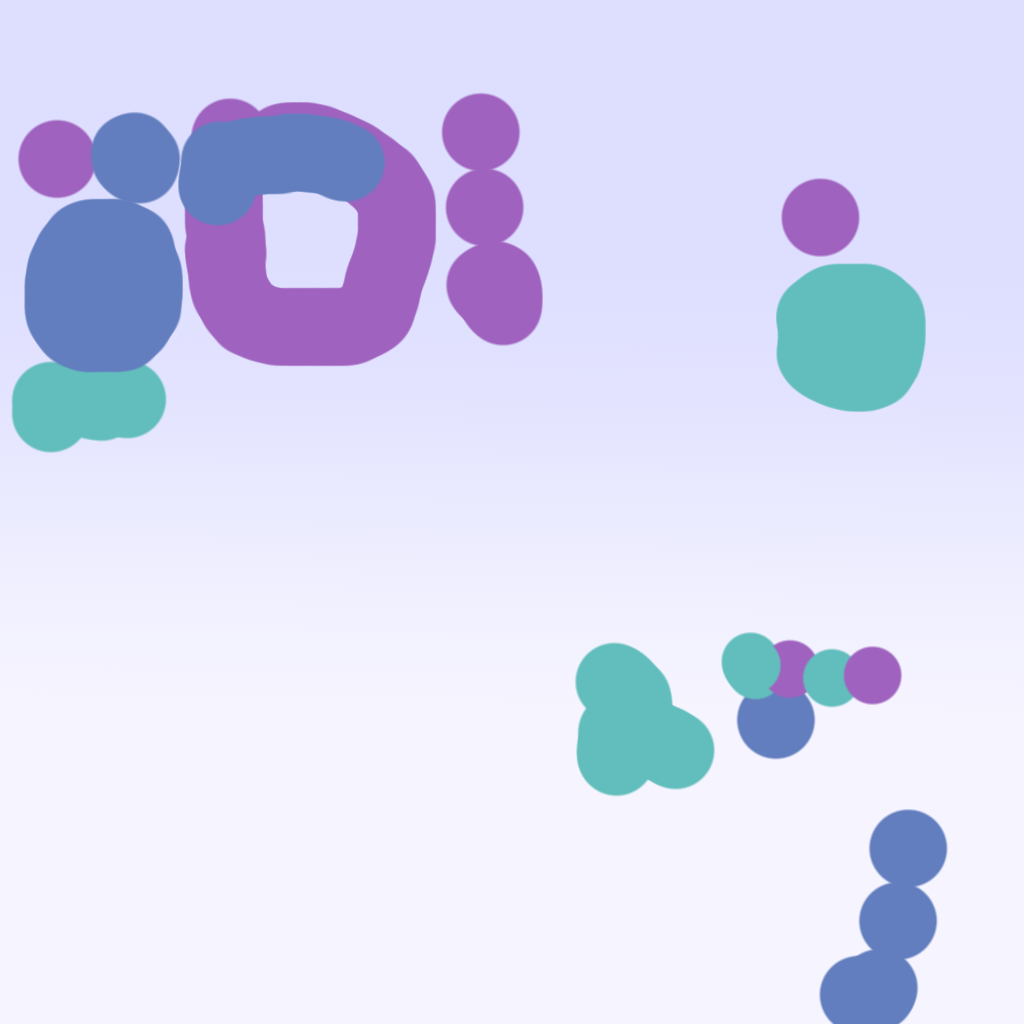
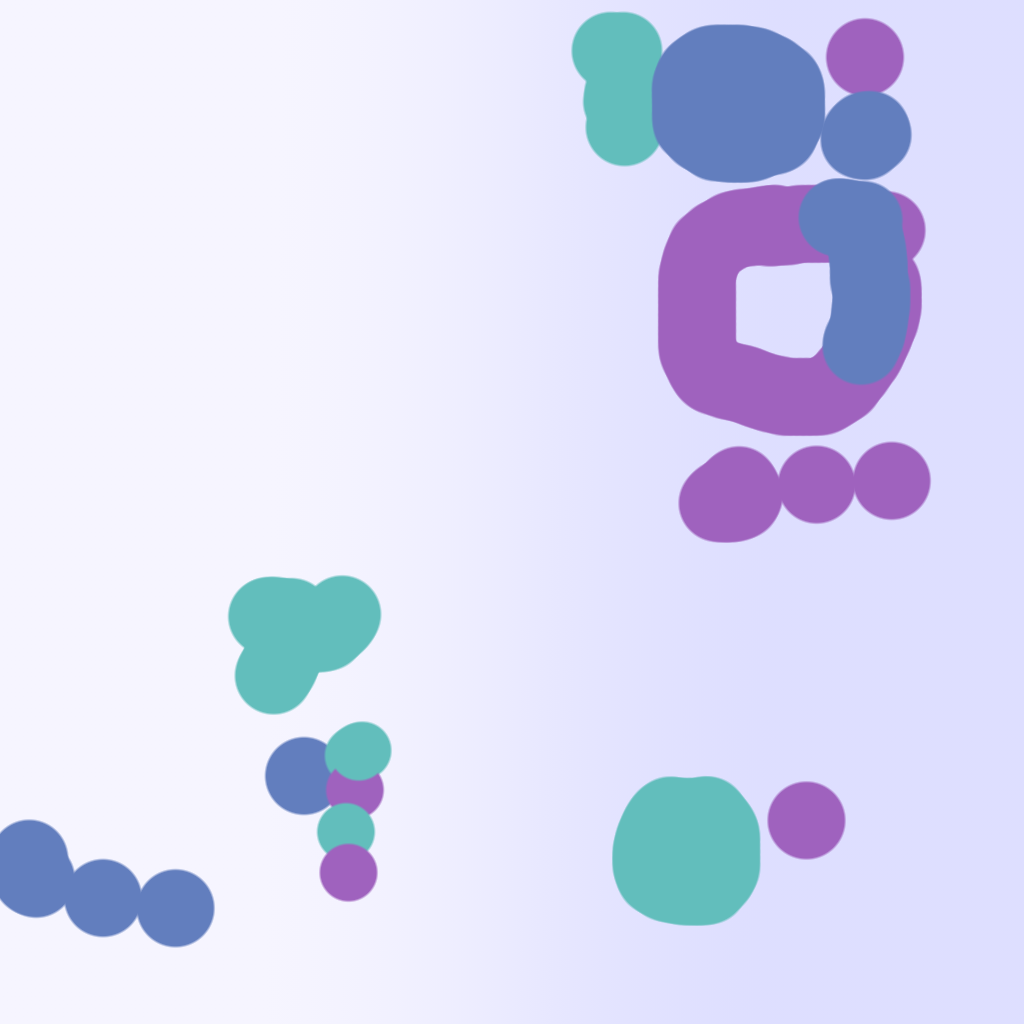
premiere emp 2D to 3D

diff --git a/FRONT/src/components/Map3DUser.vue b/FRONT/src/components/Map3DUser.vue
@@ -86,7 +86,6 @@ export default {
           var idbat = -1;
 
           for (var i = 0; i < this.children.length; i++) {
-            console.log("child", this.children[i].name)
             if (this.children[i].name.slice(0,3) == "bat") {
               idbat++;
               const info = {
@@ -101,8 +100,6 @@ export default {
                 this.children[i].material.metalness = 0;
                 this.children[i].receiveShadow = true;
                 this.selectionables.add(this.children[i]);
-                console.log("conf", this.children[i])
-                console.log("position of conf", this.children[i].position.x, " :  y : ",this.children[i].position.y , "  :  z  :", this.children[i].position.z)
                 texturebat = null;
               }
               if(this.children[i].name == "bat_rest"){
@@ -124,7 +121,6 @@ export default {
                 texturebat = new THREE.TextureLoader().load('map/mapData/tex/tex_attrfutur.png');
               }
               if(this.children[i].name.includes("wc")){
-                console.log("wc", this.children[i])
                 texturebat = new THREE.TextureLoader().load('map/mapData/tex/tex_wc.png');
                 const mat_bat = new THREE.MeshPhongMaterial({map: texturebat});
 
@@ -245,17 +241,21 @@ export default {
     const material_bat = new THREE.MeshPhongMaterial({map: texture_bat});
 
     this.emplacement_bdd = await getAllEmp();
+
     console.log("emplacement_bdd", this.emplacement_bdd)
     for (let i = 0; i < this.emplacement_bdd.length; i++) {
       var matricepoints = this.emplacement_bdd[i].matricepoints.matricepoints
       console.log("mat", matricepoints)
 
       //pour chaque point mettre les coordonné de 2D a 3D
-      for(let j = 0 ; j < matricepoints.length ; j++){
-        let newPoint = this.point2Dto3D(matricepoints[i][0],matricepoints[i][1] )
+  /*    for(let j = 0 ; j < matricepoints.length; j++){
+        let newPoint = await this.point2Dto3D(matricepoints[i][0],matricepoints[i][1] )
         console.log("newpoint", j, " :  ", newPoint)
-      }
+        matricepoints[i][0] = newPoint.x;
+        matricepoints[i][1] = newPoint.z;
+      }*/
       const emp = await this.matriceTo3DEmp(matricepoints);
+      console.log("emp3D", emp)
       emp.position.set(this.emplacement_bdd[i].posx, this.emplacement_bdd[i].posy, this.emplacement_bdd[i].posz);
       emp.material= material_emp.clone();
       this.nonselectionables.add(emp);
@@ -305,7 +305,7 @@ export default {
 
     },
 
-    point2Dto3D(x, z ) {
+    async point2Dto3D(x, z ) {
       // Bounding box de la map 3D
       const boundingBox = {
         min: { x: -0.9983415603637695, y: -1, z: -1.0045995712280273 },
@@ -329,19 +329,34 @@ export default {
         }
       };
       console.log("kjsdkljqskldjklqsjdklqskljd", adjustedBoundingBox)
-
+      /*
+      kjsdkljqskldjklqsjdklqskljd max
+          max:
+          x: 145.76097359713458
+          y: 1.8496733903884888
+          z: 150.63050706416016
+          min
+          x-145.2783025259123
+          y-1.8496733903884888
+          z:-152.0225906055275
+       */
       // Application de la transformation aux coordonnées 2D
       const point3D = {
-        x: x * (adjustedBoundingBox.max.x - adjustedBoundingBox.min.x) + adjustedBoundingBox.min.x,
-        y: 10,
-        z: z * (adjustedBoundingBox.max.z - adjustedBoundingBox.min.z) + adjustedBoundingBox.min.z
+        x: x * ((adjustedBoundingBox.max.x - adjustedBoundingBox.min.x) + adjustedBoundingBox.min.x)/9,
+        z: z * ((adjustedBoundingBox.max.z - adjustedBoundingBox.min.z) + adjustedBoundingBox.min.z)/20
       };
-
+      console.log("point3D", point3D)
       return point3D;
     },
 
     async matriceTo3DEmp(matricepoints){
       const points = matricepoints.map(([x, y]) => new THREE.Vector2(x, y));
+      //mettre a l'echelle
+      for(let i = 0; i < points.length; i++){
+          let pointemp = await this.point2Dto3D(points[i].x,points[i].y)
+          points[i].x = pointemp.x;
+          points[i].y = pointemp.z;
+      }
       // Épaisseur de l'objet
       const depth = 2;
       const shape = new THREE.Shape(points);
@@ -355,8 +370,11 @@ export default {
       mesh.castShadow = true;
       mesh.receiveShadow = true;
       mesh.name = "emptet";
+      console.log("mesh", mesh)
       return mesh;
     },
+
+
     onMouseMove(event) {
       var position = new THREE.Vector2();
       var domRect = this.renderer.domElement.getBoundingClientRect();

diff --git a/FRONT/src/components/MapTest.vue b/FRONT/src/components/MapTest.vue
@@ -178,7 +178,7 @@ export default {
         objet.name = this.batiment[this.idbatafficher].name;
         this.previewbatiewbatiment = objet;
         //mettre en gris
-        this.previewbatiewbatiment.material.color.setHex(0x7e7e7e);
+        //this.previewbatiewbatiment.material.color.setHex(0x7e7e7e);
         this.previewgroupe.add(objet);
         this.rotation;
         this.previewbatiewbatiment.position.x = this.selectab[0]["obj"].position.x;
@@ -983,6 +983,7 @@ export default {
                 if (this.children[i].name.slice(0, 3) == "dec") {
                 if(this.children[i].name.includes("tree")){
                   const texturetree = new THREE.TextureLoader().load('map/mapData/tex/tex_tree.png');
+                  texturetree.flipY = false;
                   const mattree = new THREE.MeshPhongMaterial({map: texturetree});
                   this.children[i].material = mattree;
                   this.children[i].material.metalness = 0;
